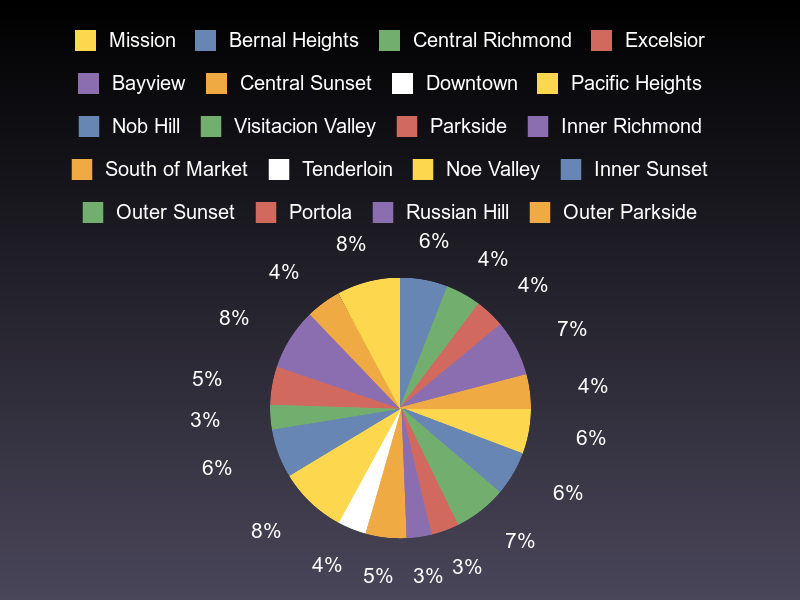
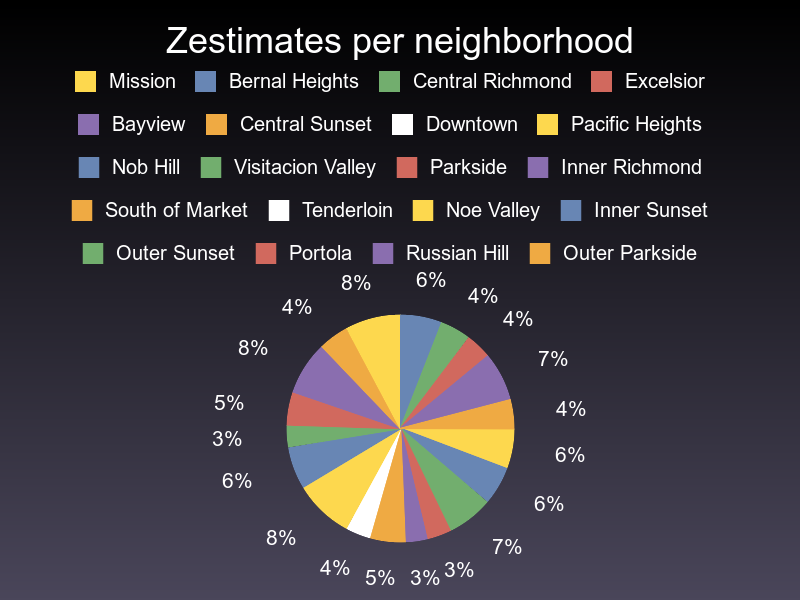
Fixed gruff

diff --git a/app/controllers/searches_controller.rb b/app/controllers/searches_controller.rb
@@ -67,4 +67,12 @@ class SearchesController < ApplicationController
       @gruff.write("zestimates_image.png")
     end
 
+    # def gruff_coordinates_image
+    #   @gruff.title = "Coordinates per neighborhood"
+    #   @names_zestimates.first(20).each do |result|
+    #     @gruff.set_data(result[:name],result[:zestimate].to_i)
+    #   end
+    #   @gruff.write("zestimates_image.png")
+    # end
+
 end

diff --git a/app/models/gruff_pie.rb b/app/models/gruff_pie.rb
@@ -4,7 +4,11 @@ class GruffPie
   def initialize
     @gruff = Gruff::Pie.new 
   end
-  
+
+  def title=(title)
+    @gruff.title = title
+  end
+
   def set_data(row,value)
     @gruff.data(row,value)
   end
